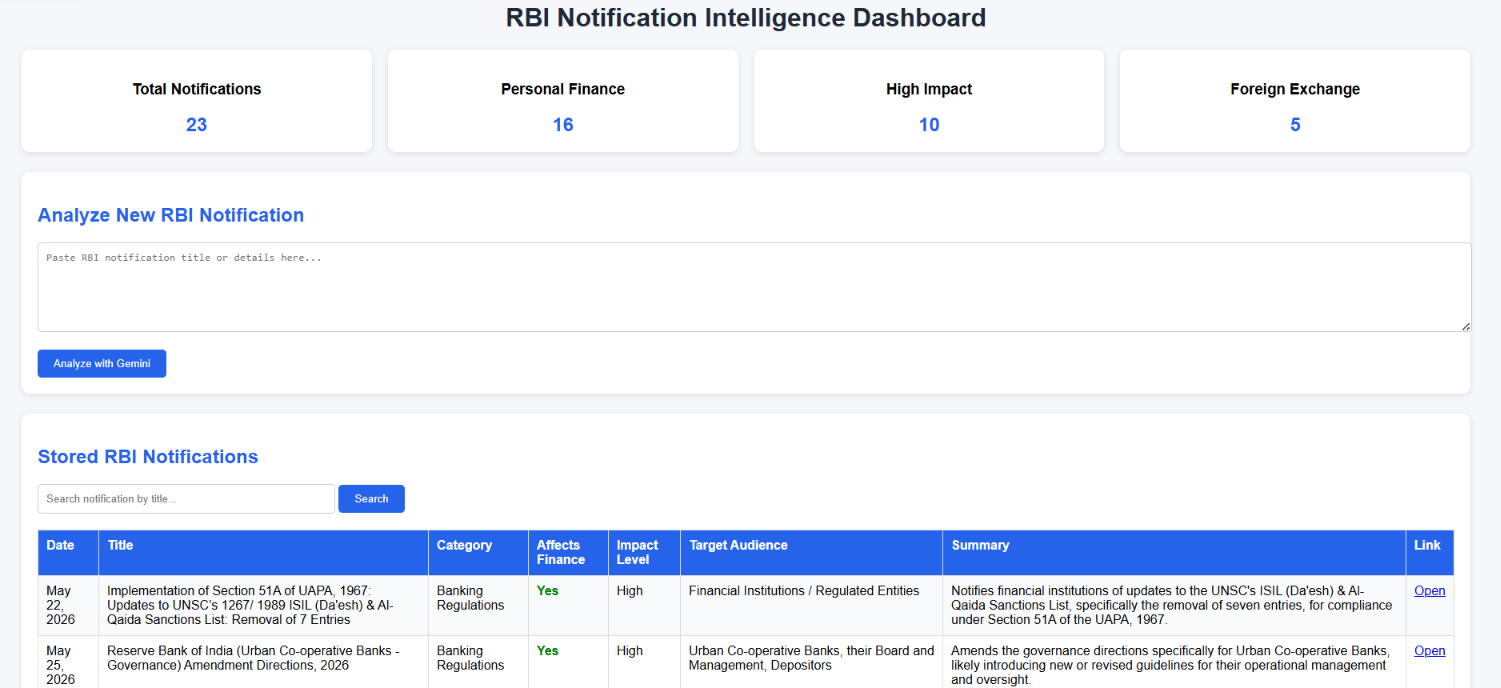
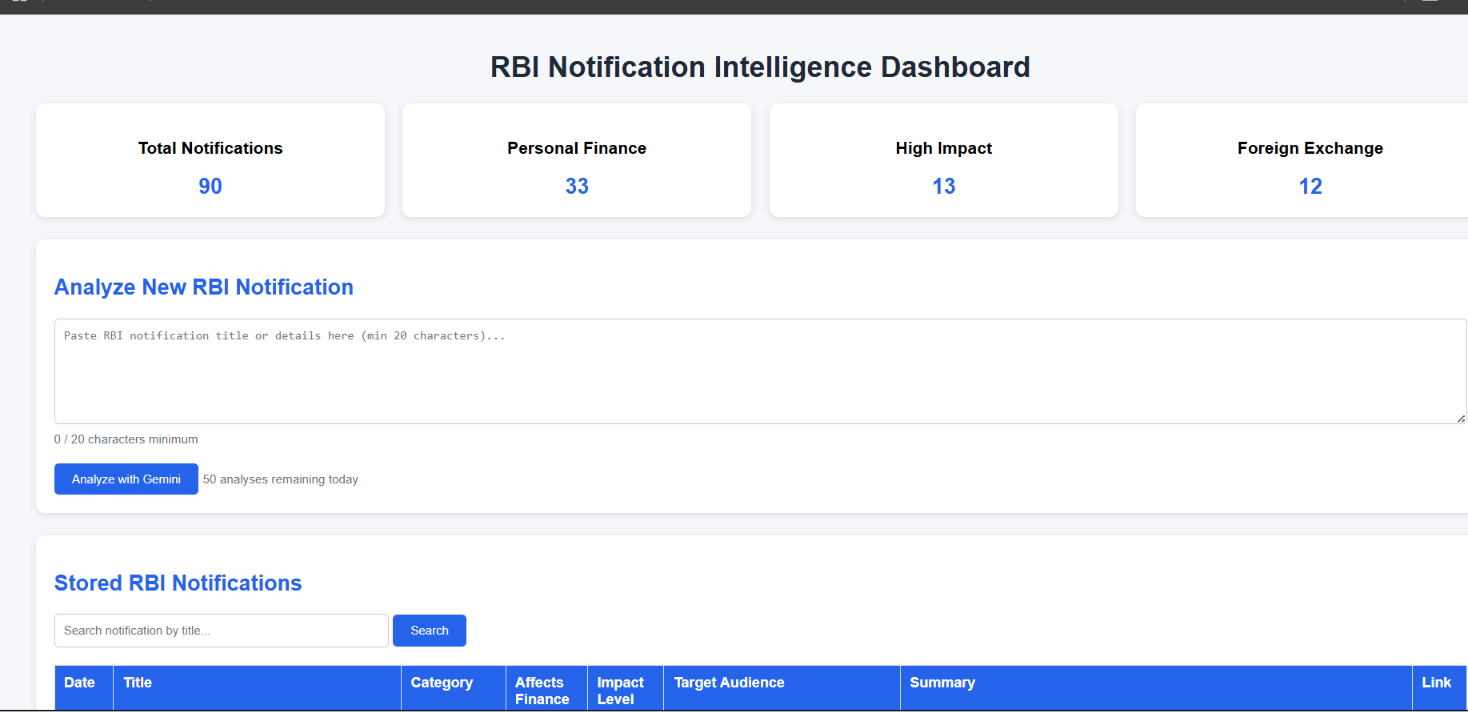
updated import

diff --git a/app.py b/app.py
@@ -48,18 +48,18 @@ rate_limiter = RateLimiter(max_requests=5, window_seconds=60)
 
 
 # -----------------------------------------------
-# Gemini Model — lazy initialization
+# Gemini Client — lazy initialization
 # -----------------------------------------------
-_gemini_model = None
+_gemini_client = None
 
 
-def get_gemini_model():
-    """Lazy-initialize the Gemini model so the app
+def get_gemini_client():
+    """Lazy-initialize the Gemini client so the app
     doesn't crash at startup if no API key is set."""
 
-    global _gemini_model
+    global _gemini_client
 
-    if _gemini_model is None:
+    if _gemini_client is None:
 
         api_key = os.getenv("GEMINI_API_KEY")
 
@@ -69,12 +69,11 @@ def get_gemini_model():
                 "Please set it in the .env file."
             )
 
-        genai.configure(api_key=api_key)
-        _gemini_model = genai.GenerativeModel(
-            "gemini-2.5-flash"
+        _gemini_client = genai.Client(
+            api_key=api_key
         )
 
-    return _gemini_model
+    return _gemini_client
 
 
 # -----------------------------------------------
@@ -265,9 +264,10 @@ Notification:
 
                     try:
 
-                        model = get_gemini_model()
-                        response = model.generate_content(
-                            prompt
+                        client = get_gemini_client()
+                        response = client.models.generate_content(
+                            model="gemini-2.5-flash",
+                            contents=prompt
                         )
 
                         result = response.text.strip()

diff --git a/README.md b/README.md
@@ -9,7 +9,7 @@ The project helps users quickly understand RBI notifications without reading len
 ---
 ## Dashboard Preview
 
-<img src="assets/dashboard.png" width="100%">
+<img src="assets/Dashboard.png" width="100%">
 ## Features
 
 ### RBI Notification Collection